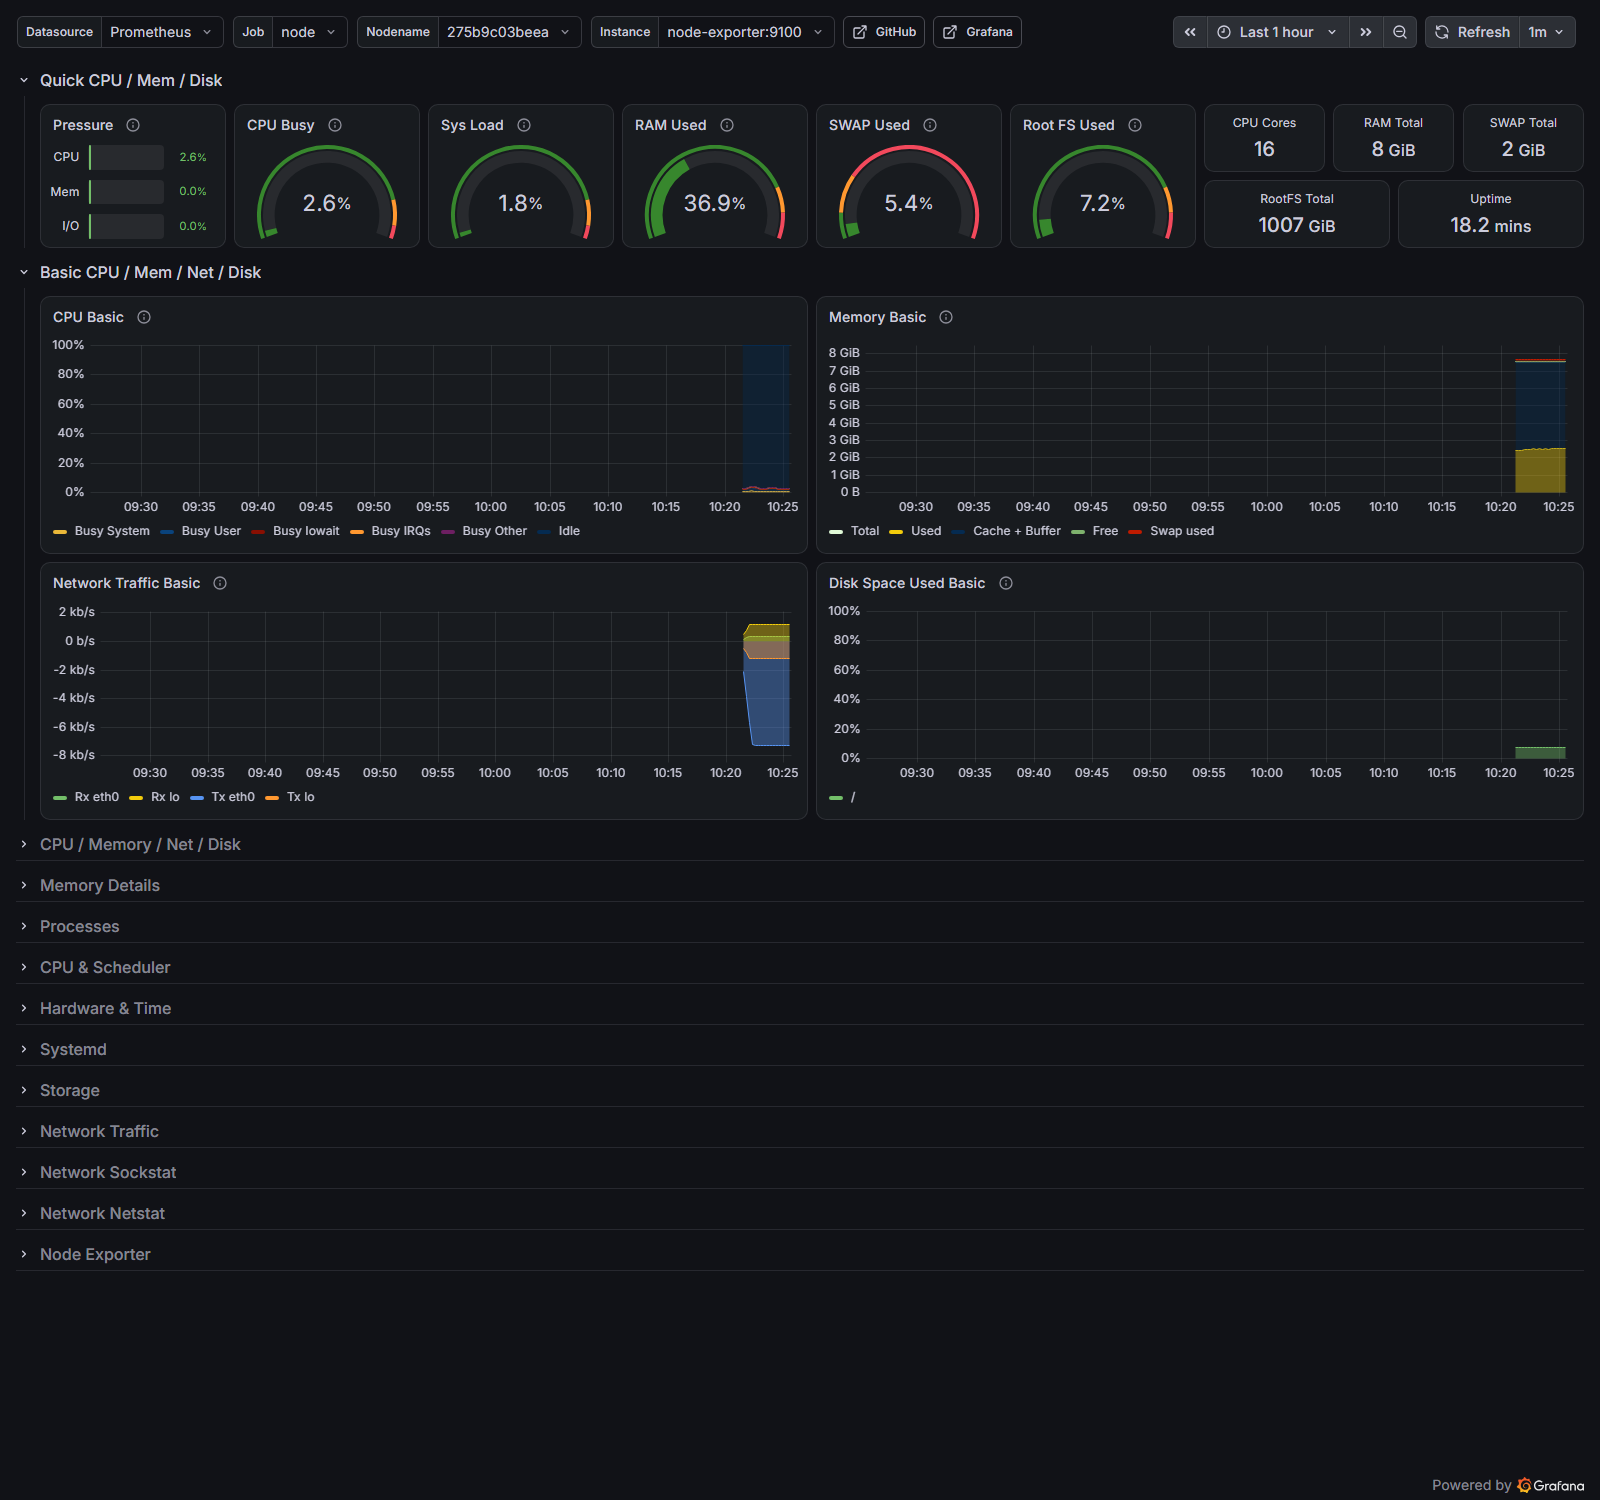
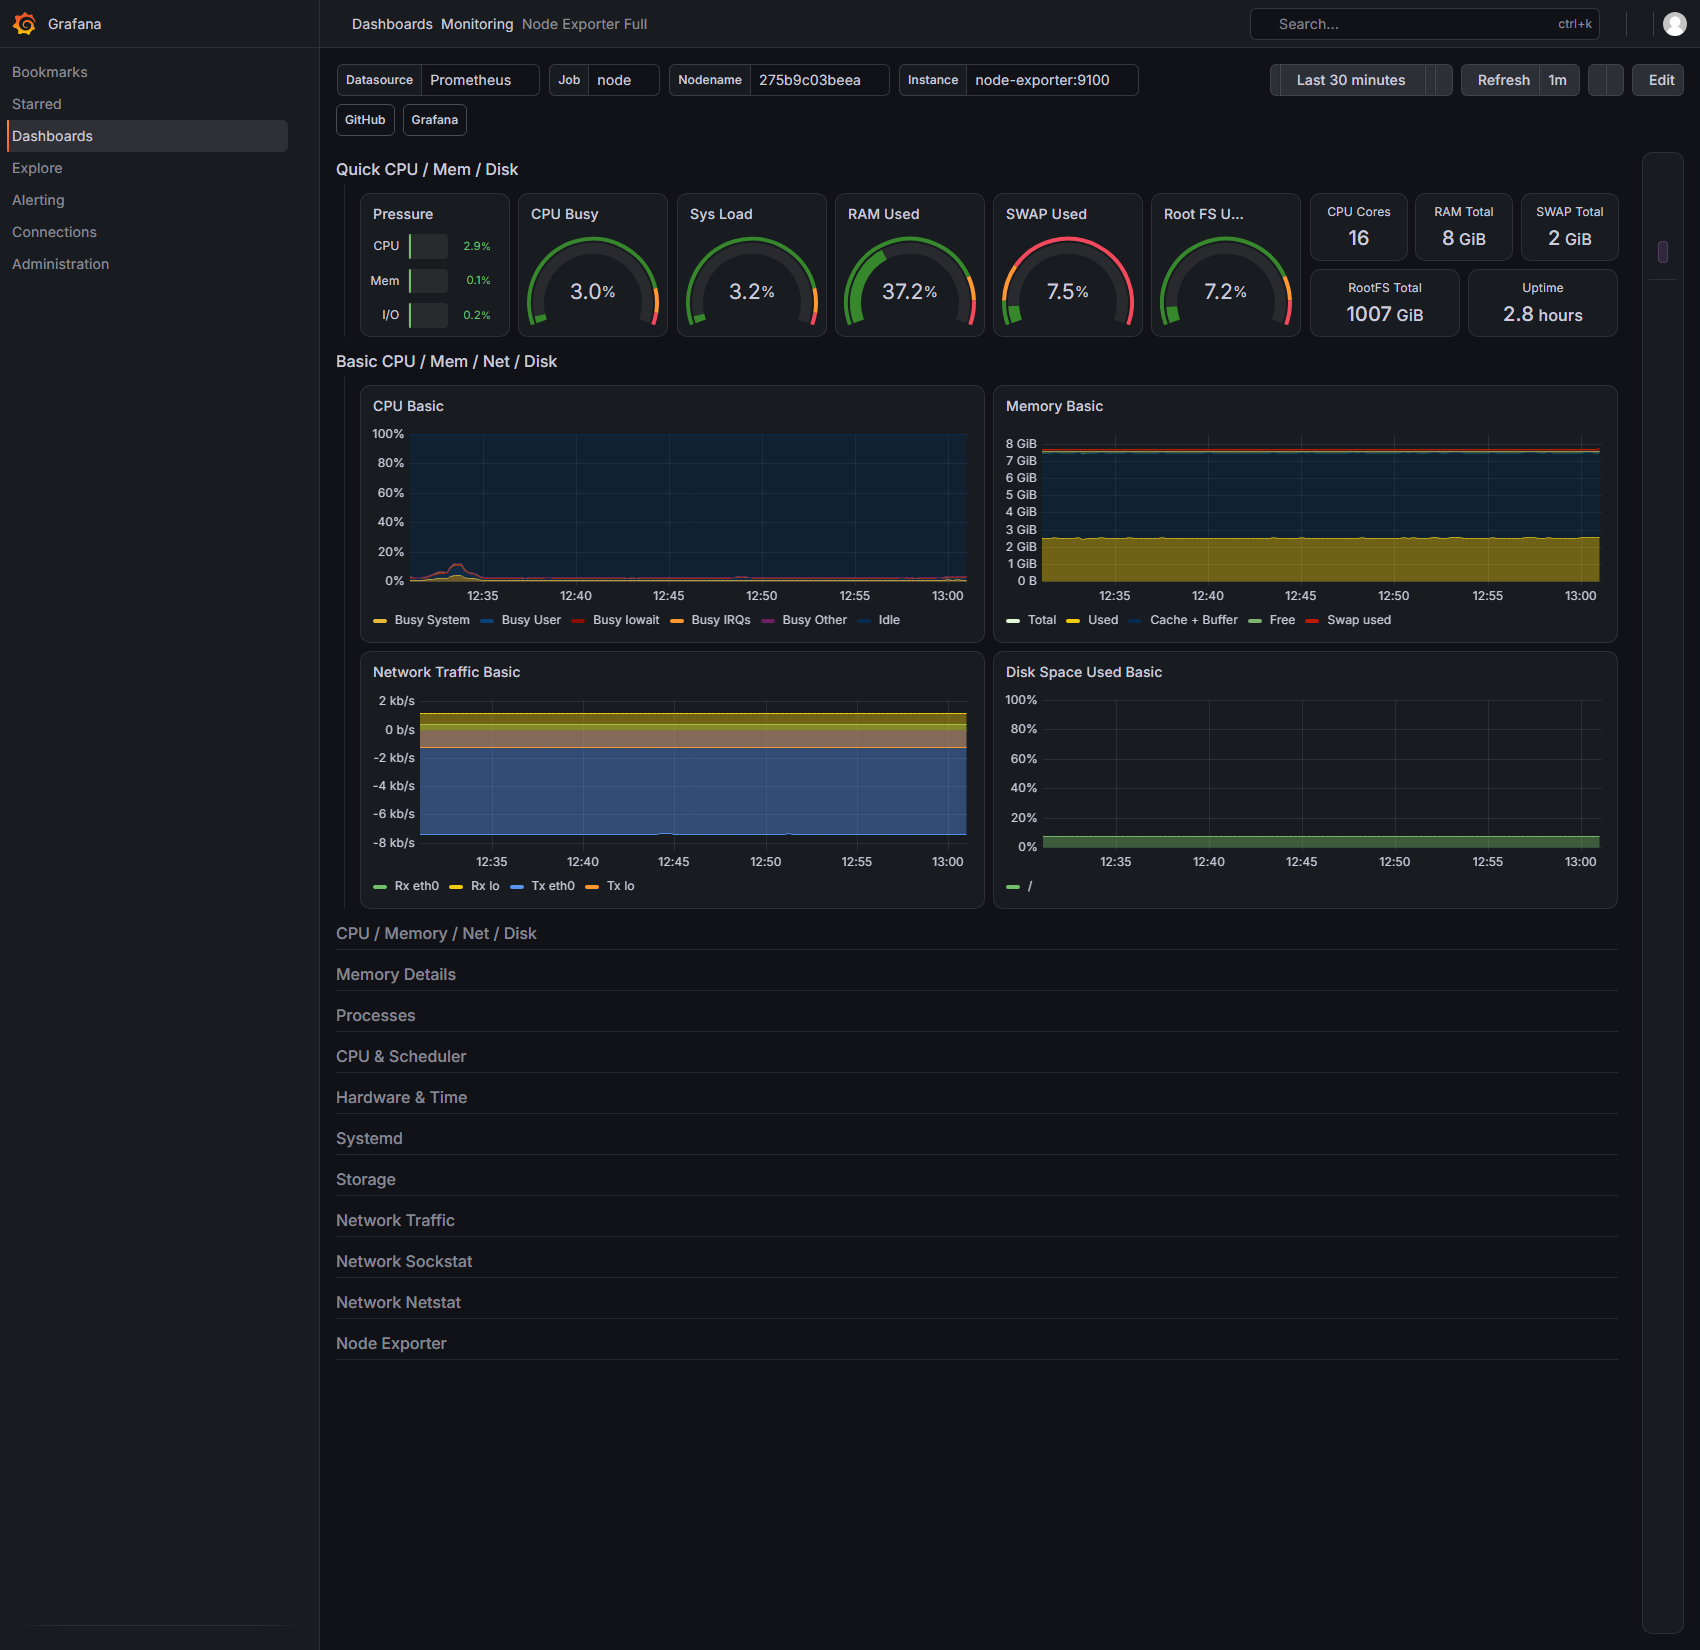
Replace screenshots 02, 03 and 07 with clearer re-captures
- 02 Node Exporter Full and 03 Three-Tier App - Production are re-captured
  with the dashboard title visible (the earlier kiosk-mode captures hid it),
  the full Server row visible in 03, and a clean 30-minute window in 02
- 07 is now a real Grafana Explore (Loki) view of the alert-sink log showing
  the FrontendDown notification firing (04:32:50 UTC) and resolved
  (04:33:50 UTC) for the 2026-11-22 demo, replacing a text render of the
  earlier first-demo log (the .txt original is kept)
- README rows for 02, 03, 06 and 07 updated to describe the new captures
- Filenames and the screenshot count (20) are unchanged; the originals are
  backed up outside the repository and remain in git history

diff --git a/README.md b/README.md
@@ -104,10 +104,11 @@ beyond `127.0.0.1`. More detail: [docs/architecture.md](docs/architecture.md), [
 | File | Shows |
 |---|---|
 | `01-grafana-dashboards-list.png` | The 6 dashboards in folder *Monitoring* |
-| `02-node-exporter-full-1860.png` | Community dashboard, job `node` |
-| `03-three-tier-app-production.png` | Production dashboard, all four rows, with traffic |
+| `02-node-exporter-full-1860.png` | Community dashboard "Node Exporter Full" (title visible), job `node`, last 30 minutes (re-captured 2026-11-22 07:01 UTC; axis times are Bangladesh local time, UTC+6) |
+| `03-three-tier-app-production.png` | "Three-Tier App – Production" (title visible): all four tier rows fully visible, with traffic, last 30 minutes (re-captured 2026-11-22 07:00 UTC; axis times are Bangladesh local time, UTC+6) |
 | `04-prometheus-targets.png`, `05-prometheus-alerts-inactive.png` | Targets UP; all alert rules inactive |
-| `06-docker-compose-ps.png`, `07-alert-sink-firing-resolved.png` | Rendered from captured command output (not live terminal windows); `.txt` originals alongside |
+| `06-docker-compose-ps.png` | `docker compose ps`: all 14 containers healthy. Rendered from captured command output (not a live terminal window); `.txt` original alongside |
+| `07-alert-sink-firing-resolved.png` | Grafana Explore (Loki) view of the alert-sink log for the 2026-11-22 demo: the `FrontendDown` notification **firing** (10:32:50 local = 04:32:50 UTC) and **resolved** (10:33:50 local = 04:33:50 UTC); re-captured 2026-11-22 07:01 UTC. `07-alert-sink-firing-resolved.txt` is the earlier text capture of the first demo (2026-11-21 18:15 UTC) |
 | `08-grafana-frontend-availability-DOWN.png` | Controlled failure 2026-11-22 04:31 UTC: Frontend availability DOWN |
 | `09-prometheus-FrontendDown-FIRING.png` | Prometheus `/alerts`: `FrontendDown` FIRING (04:32 UTC) |
 | `10-prometheus-FrontendDown-after-recovery.png`, `11-grafana-frontend-availability-recovered.png` | After recovery: alert gone, panel UP |
